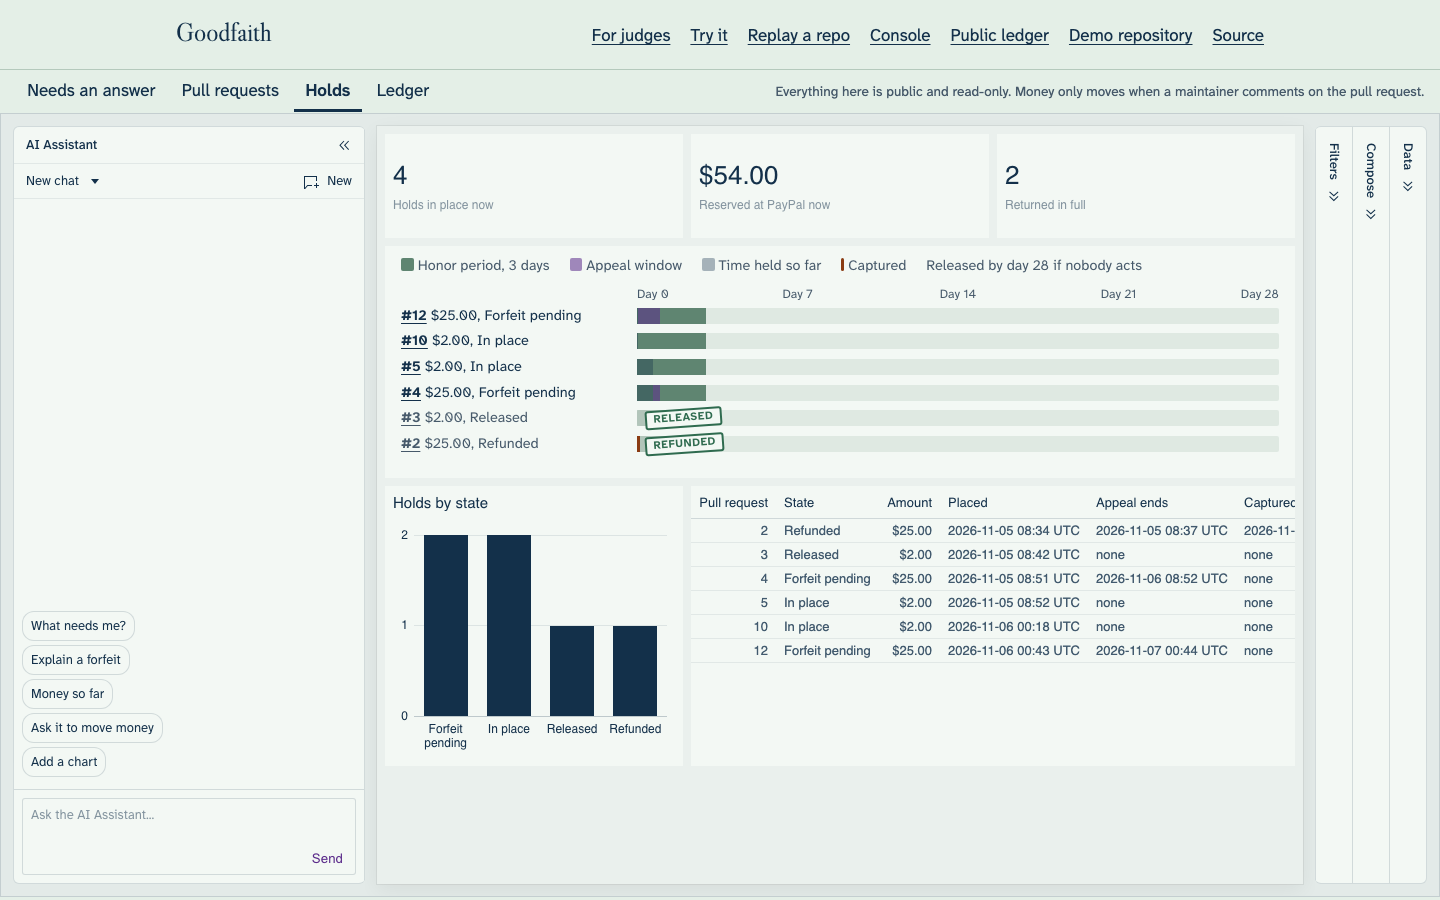
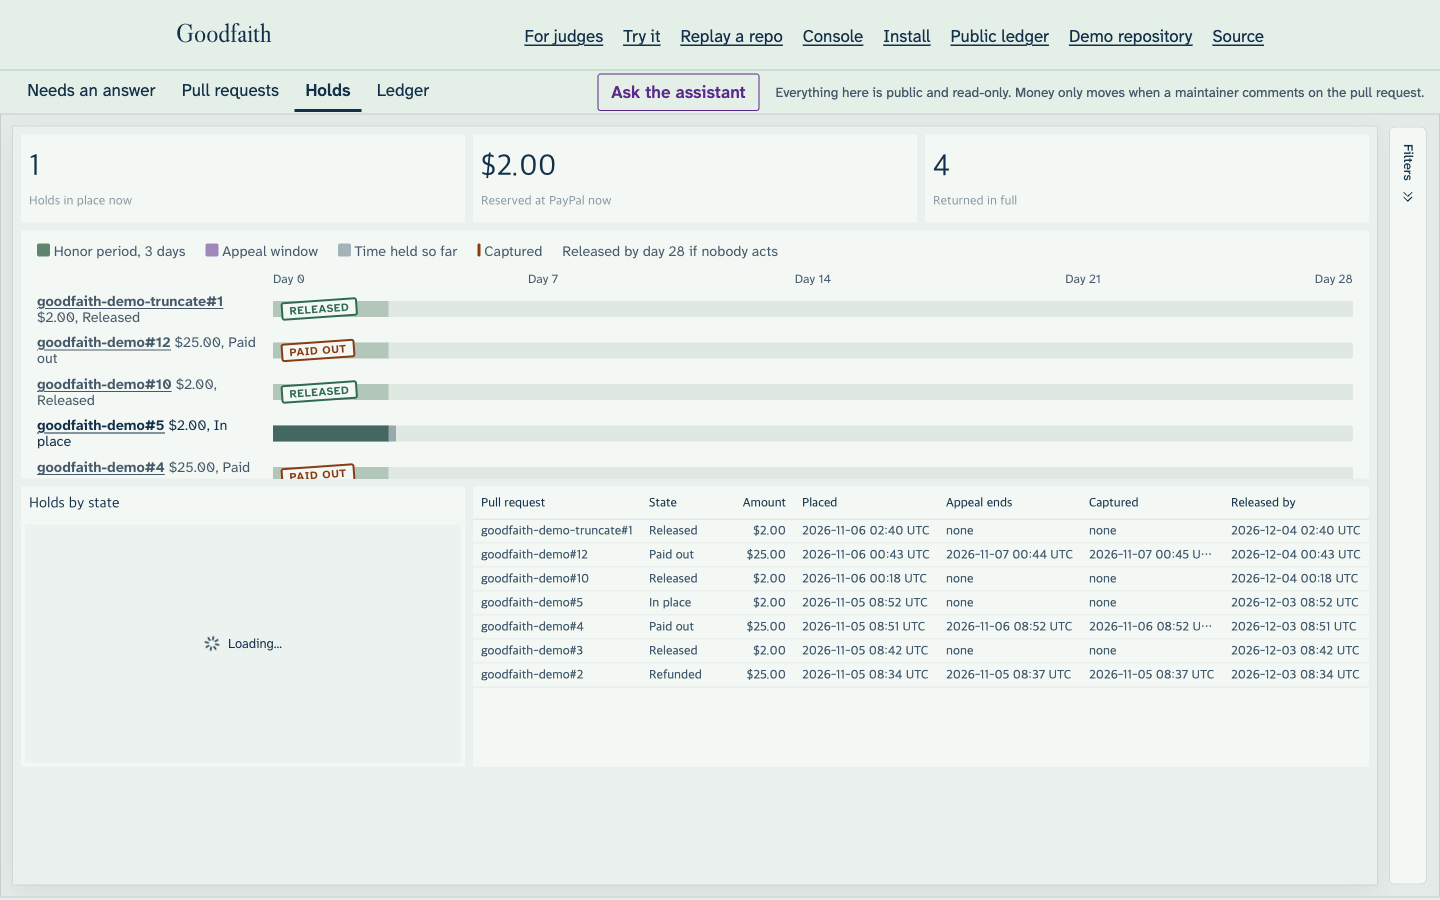
Fold the edit rails after the switch to edit mode, and give the hold timeline room for every hold

diff --git a/src/app/console/studio.tsx b/src/app/console/studio.tsx
@@ -2,7 +2,7 @@
 
 import { AgStudio, AgStudioProvider, createWidgets } from 'ag-studio-react';
 import { AgStudioAiModule, AgStudioLicenseManager, createAiHarness, directLlmRunner, studioTheme, type AgAiHarnessSetup, type AgAiPromptStarter, type AgDataSourcesDefinition, type AgReportState, type AgStudioApi, type AgStudioMode } from 'ag-studio';
-import { useMemo, useRef, useState } from 'react';
+import { useEffect, useMemo, useRef, useState } from 'react';
 import { consoleAdapter } from '@/lib/console/adapter';
 import { HOLD_RULES, type ConsoleData } from '@/lib/console/data';
 import { HoldTimeline, TIMELINE_FIELDS } from './hold-timeline';
@@ -90,9 +90,9 @@ const INITIAL: AgReportState = {
         open: { xTrack: 0, yTrack: 0, xSpan: 8, ySpan: 6 },
         reserved: { xTrack: 8, yTrack: 0, xSpan: 8, ySpan: 6 },
         returned: { xTrack: 16, yTrack: 0, xSpan: 8, ySpan: 6 },
-        timeline: { xTrack: 0, yTrack: 6, xSpan: 24, ySpan: 16 },
-        states: { xTrack: 0, yTrack: 22, xSpan: 8, ySpan: 18 },
-        list: { xTrack: 8, yTrack: 22, xSpan: 16, ySpan: 18 },
+        timeline: { xTrack: 0, yTrack: 6, xSpan: 24, ySpan: 24 },
+        states: { xTrack: 0, yTrack: 30, xSpan: 8, ySpan: 16 },
+        list: { xTrack: 8, yTrack: 30, xSpan: 16, ySpan: 16 },
       },
     },
     {
@@ -129,13 +129,14 @@ export function Studio({ data, licenseKey }: { data: ConsoleData; licenseKey: st
   // something switches to edit, where a layout change stays in this browser.
   const [mode, setMode] = useState<AgStudioMode>('view');
 
-  // Studio opens the edit rails wide on the first switch, and the assistant is what this
-  // button is for, so the rails start folded and the dashboard keeps its width.
-  function toggleMode() {
+  // Studio opens the edit rails wide on the first switch, and the assistant is what the button
+  // is for, so the rails fold once edit mode is in place and the dashboard keeps its width.
+  useEffect(() => {
     const api = studio.current;
-    if (mode === 'view' && api) api.setState({ ...api.getState(), panels: { ...api.getState().panels, ...FOLDED } });
-    setMode(mode === 'view' ? 'edit' : 'view');
-  }
+    if (mode !== 'edit' || !api) return;
+    const frame = requestAnimationFrame(() => api.setState({ ...api.getState(), panels: { ...api.getState().panels, ...FOLDED } }));
+    return () => cancelAnimationFrame(frame);
+  }, [mode]);
 
   function open(id: string) {
     const api = studio.current;
@@ -305,7 +306,7 @@ export function Studio({ data, licenseKey }: { data: ConsoleData; licenseKey: st
         {PAGES.map(({ id, label }) => (
           <button key={id} type="button" aria-current={page === id ? 'page' : undefined} onClick={() => open(id)}>{label}</button>
         ))}
-        <button type="button" className="console-mode" aria-pressed={mode === 'edit'} onClick={toggleMode}>
+        <button type="button" className="console-mode" aria-pressed={mode === 'edit'} onClick={() => setMode(mode === 'view' ? 'edit' : 'view')}>
           {mode === 'view' ? 'Ask the assistant' : 'Close the assistant'}
         </button>
         <p className="muted">{mode === 'view' ? 'Everything here is public and read-only. Money only moves when a maintainer comments on the pull request.' : 'The assistant is read-only too. Layout changes stay in this browser.'}</p>
